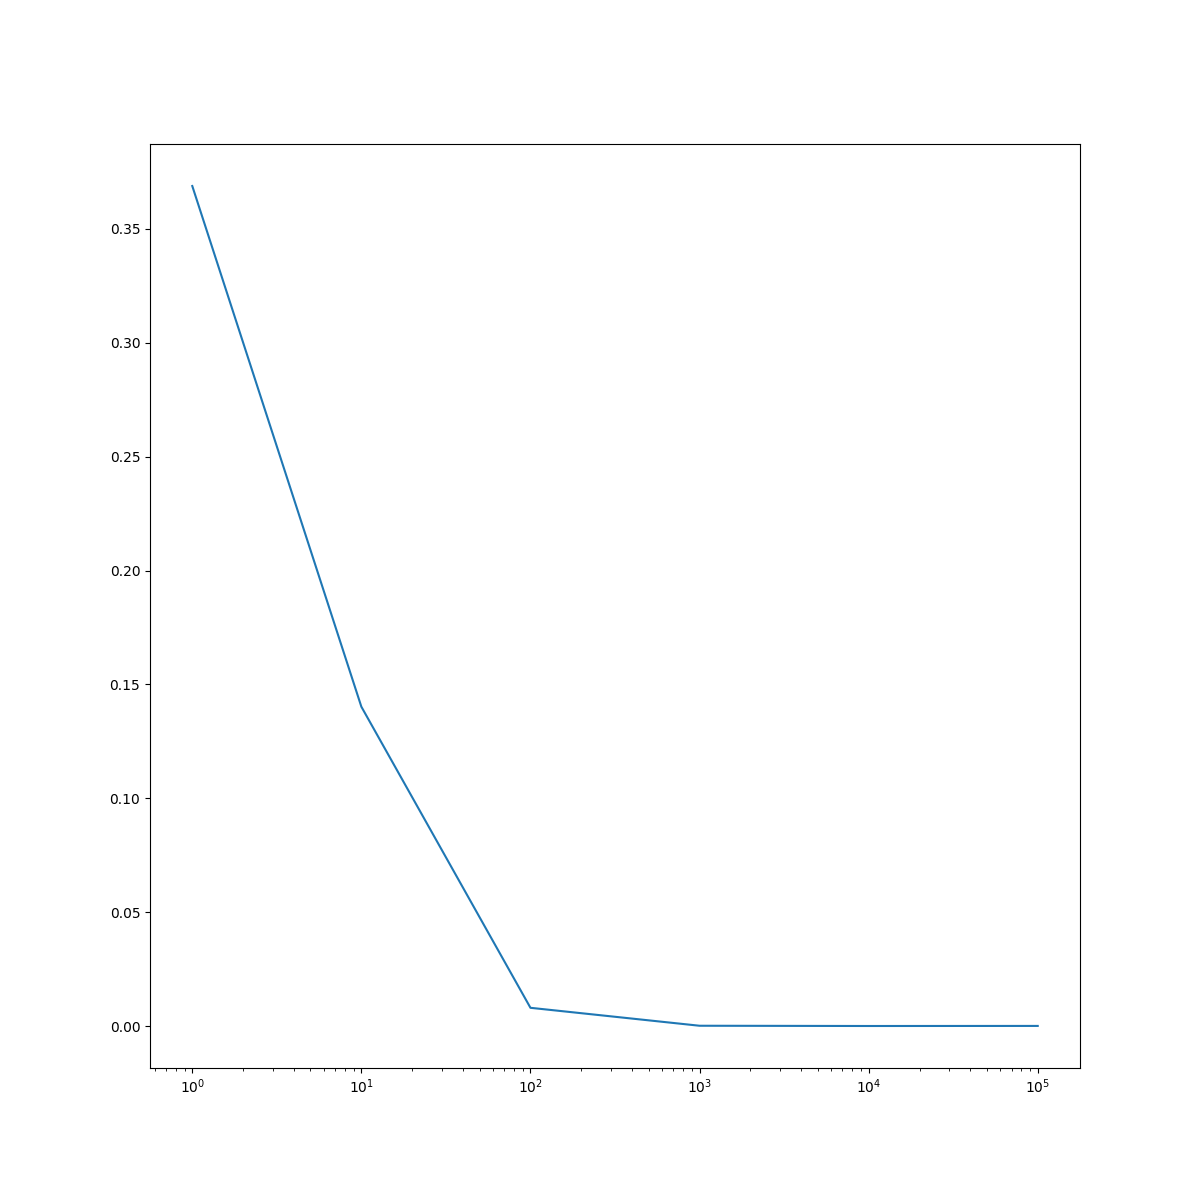
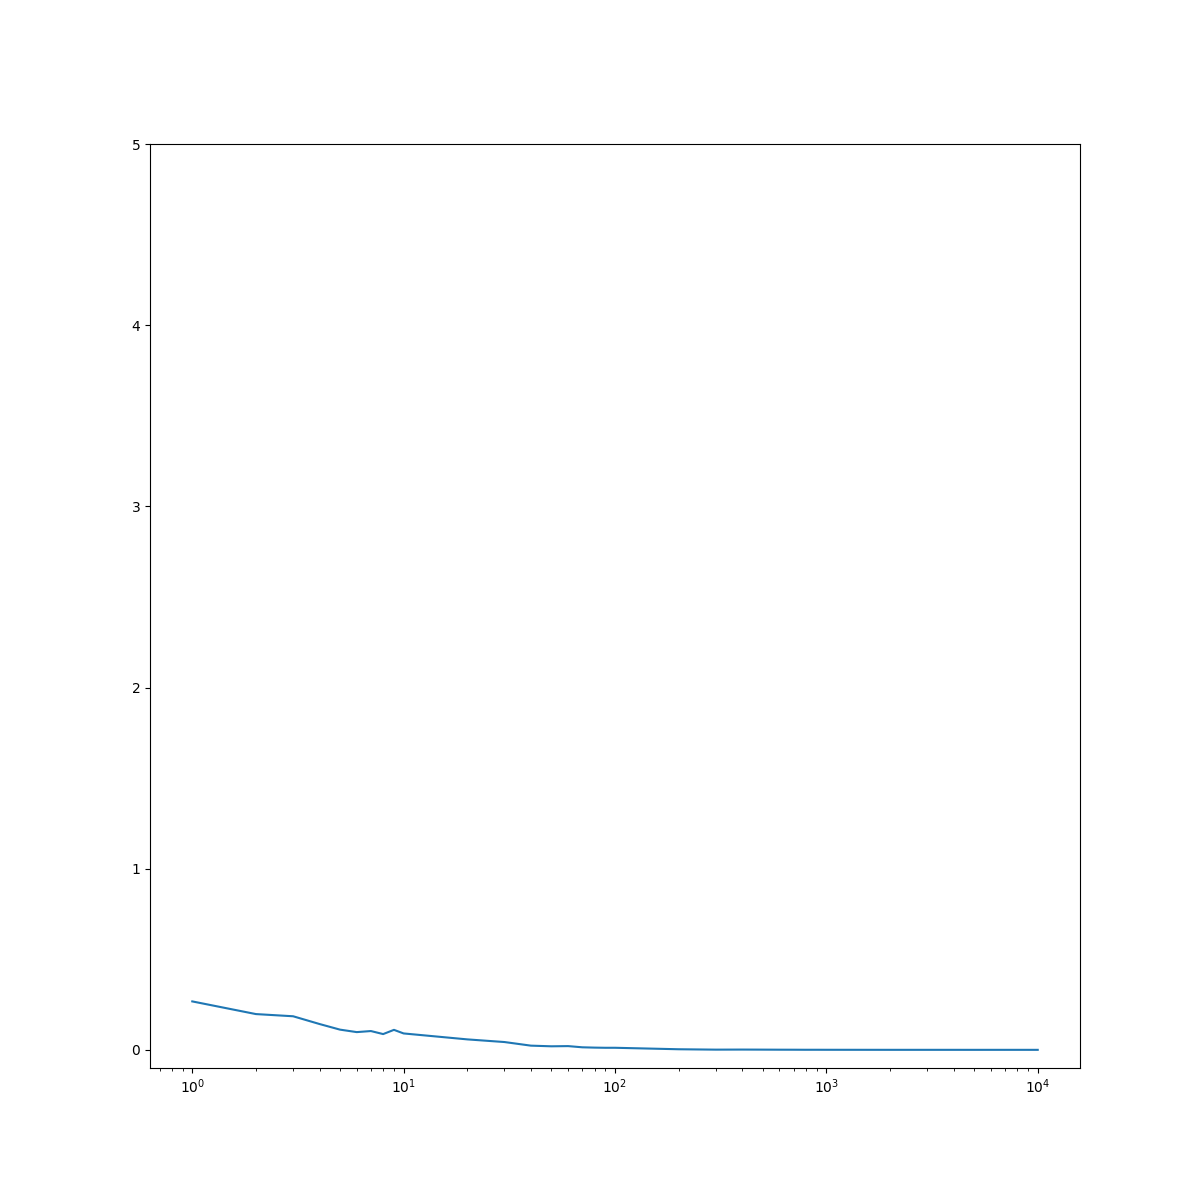
more iterations in between

diff --git a/chapter5/main.py b/chapter5/main.py
@@ -105,7 +105,15 @@ def figure_5_3(figsize=(12, 12)):
     target_policy[-2:, :, :] = 0
 
     env = BlackJack()
-    iters_arr = [10 ** x for x in range(6)]
+    iters_base = [10 ** x for x in range(5)]
+    iters_arr = np.unique(
+        np.concatenate(
+            [
+                np.arange(iters_base[i - 1], iters_base[i] + 1, step=iters_base[i - 1])
+                for i in range(1, len(iters_base))
+            ]
+        )
+    )
     runs = 100
 
     run_Vs = []
@@ -129,6 +137,7 @@ def figure_5_3(figsize=(12, 12)):
     ax = fig.add_subplot(111)
     ax.plot(iters_arr, err)
     ax.set_xscale("log")
+    ax.set_ylim([-0.1, 5])
     fig.savefig("figure_5_3.png", dpi=100)
 
 
